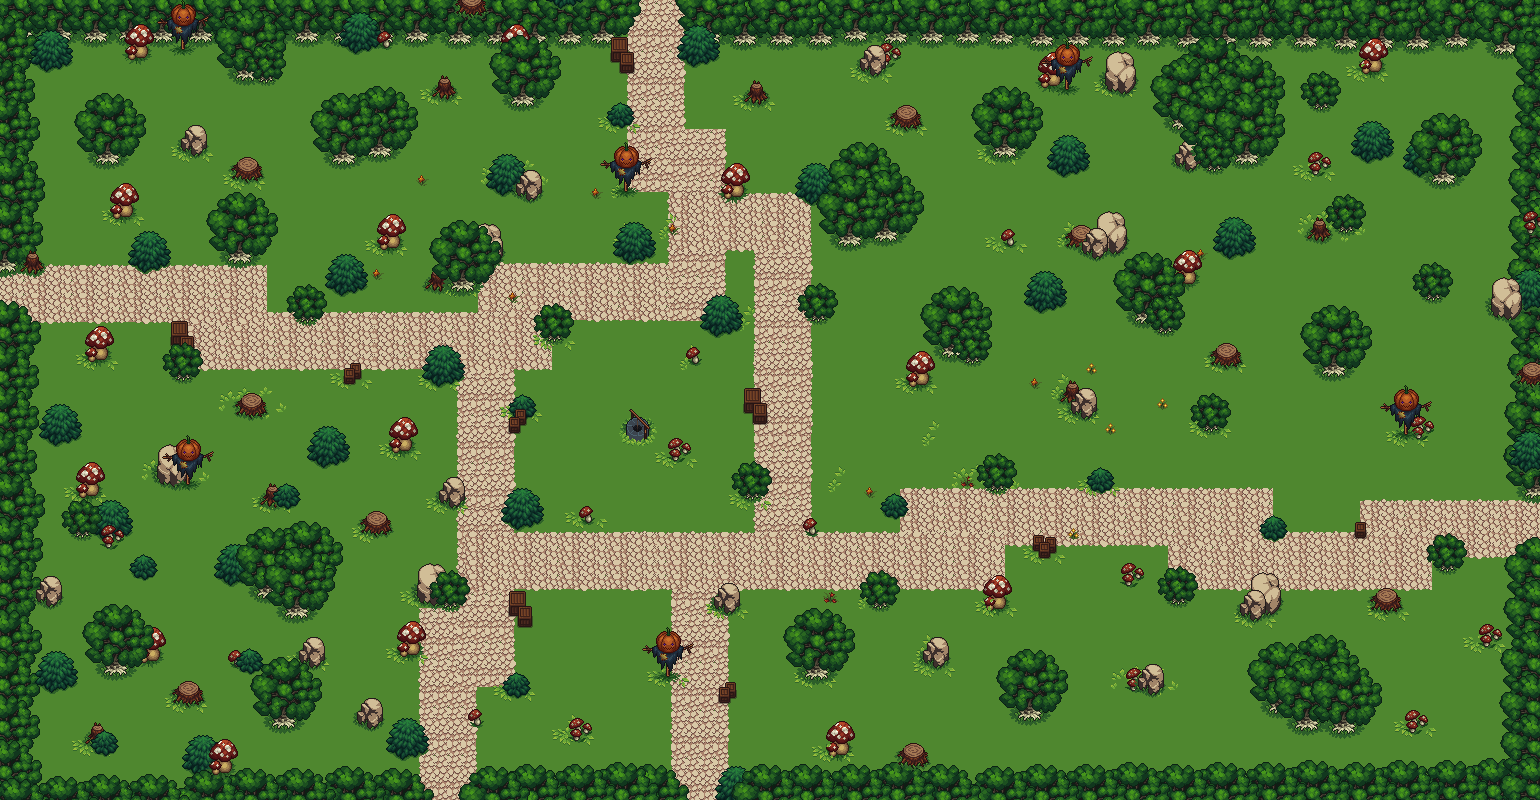
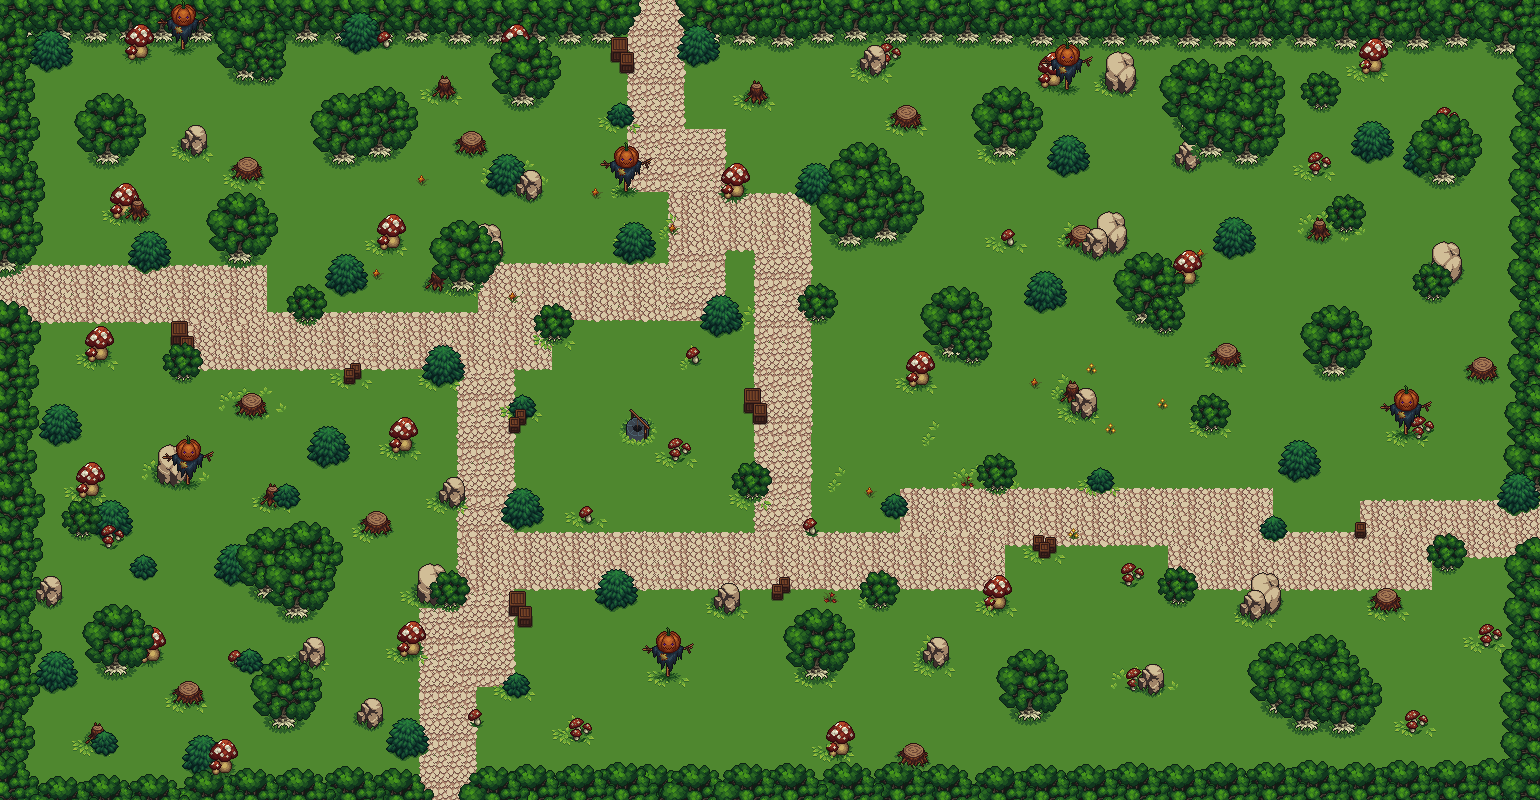
Aggiunto spawnPoint ai lati della foresta per far uscire il player dal percorso scelto (destra, sinistra, in alto o in basso)

diff --git a/src/main/java/it/unicam/cs/mpgc/rpg129851/Controller/ForestController.java b/src/main/java/it/unicam/cs/mpgc/rpg129851/Controller/ForestController.java
@@ -2,6 +2,7 @@ package it.unicam.cs.mpgc.rpg129851.Controller;
 
 import it.unicam.cs.mpgc.rpg129851.Launch.Main;
 import javafx.animation.*;
+import javafx.application.Platform;
 import javafx.fxml.FXML;
 import javafx.geometry.Bounds;
 import javafx.scene.image.Image;
@@ -17,16 +18,43 @@ public class ForestController extends EntityController {
     @FXML
     private ImageView exclamation;
     @FXML
-    private Rectangle blackScreen;
+    private Rectangle blackScreen, leftExit, rightExit, upExit, downExit;
+    private Bounds rightExitHitbox, leftExitHitbox, upExitHitbox, downExitHitbox;
 
     public void initialize() {
         super.initialize();
+        loadBoundsHitbox();
         loadBackground("forestMap.png");
         placeOrcRandomly();
     }
     public void updateLocation() {
         super.updateLocation();
+        exitCollision(leftExitHitbox, 8, 370);
+        exitCollision(rightExitHitbox, 220, 380);
+        exitCollision(upExitHitbox, 105, 225);
+        exitCollision(downExitHitbox, 122, 470);
         orcCollisionDetection();
+    }
+    public void exitCollision(Bounds exit, double x, double y){
+        if(Main.player.getHitbox(newX, newY).intersects(exit)) {
+            timer.stop();
+            keyPressed.clear();
+            FadeTransition fadeOut = new FadeTransition(Duration.seconds(1.5), blackScreen);
+            fadeOut.setFromValue(0.0);
+            fadeOut.setToValue(1.0);
+            fadeOut.setOnFinished(event -> {
+                changeMap((Stage)playerView.getScene().getWindow(), "map-view");
+                setSpawnPoint(x, y);
+            });
+            fadeOut.play();
+
+        }
+    }
+    private void loadBoundsHitbox(){
+        leftExitHitbox = leftExit.getBoundsInParent();
+        rightExitHitbox = rightExit.getBoundsInParent();
+        upExitHitbox = upExit.getBoundsInParent();
+        downExitHitbox = downExit.getBoundsInParent();
     }
     private void placeOrcRandomly(){
         Random rand  = new Random();

diff --git a/src/main/java/it/unicam/cs/mpgc/rpg129851/Controller/EntityController.java b/src/main/java/it/unicam/cs/mpgc/rpg129851/Controller/EntityController.java
@@ -16,11 +16,13 @@ public class EntityController extends LoaderController {
     public final Set<KeyCode> keyPressed = new HashSet<>();
     public boolean moving = false;
     public double newX, newY;
-
     public Pane gameWorld;
     public AnimationTimer timer;
     private long lastChangeFrame = 0;
     private int actualFrame = 0;
+
+    public static double spawnX = -1;
+    public static double spawnY = -1;
 
     public void initialize() {
         super.initialize();
@@ -30,8 +32,15 @@ public class EntityController extends LoaderController {
                 updateLocation();
                 updateAnimation(now);
                 loadHealthBarPlayer();
+                if(spawnX != -1 || spawnY != -1) {
+                    playerView.setLayoutX(spawnX);
+                    playerView.setLayoutY(spawnY);
+                    spawnX = -1;
+                    spawnY = -1;
+                }
             }
         };
+
         timer.start();
     }
     public void updateAnimation(long actualHour) {
@@ -113,7 +122,11 @@ public class EntityController extends LoaderController {
         keyPressed.remove(event.getCode());
     }
 
+    public void setSpawnPoint(double x, double y){
+        spawnX = x;
+        spawnY = y;
 
+    }
 
 
 }

diff --git a/src/main/java/it/unicam/cs/mpgc/rpg129851/Controller/BattleController.java b/src/main/java/it/unicam/cs/mpgc/rpg129851/Controller/BattleController.java
@@ -10,8 +10,10 @@ import javafx.fxml.FXML;
 import javafx.geometry.Rectangle2D;
 import javafx.scene.image.Image;
 import javafx.scene.image.ImageView;
+import javafx.stage.Stage;
 
 import java.util.Objects;
+import java.util.Random;
 
 public class BattleController extends LoaderController {
     @FXML
@@ -87,4 +89,11 @@ public class BattleController extends LoaderController {
         imagePlayer = new Image(Objects.requireNonNull(getClass().getResourceAsStream("/it/unicam/cs/mpgc/rpg129851/images/playerAttack.png")));
     }
 
+    public void run() {
+        Random random = new Random();
+        if(random.nextInt(100) < 10){
+            System.out.println("Sei scappato dall'orco");
+            changeMap((Stage) playerView.getScene().getWindow(), "forest-view");
+        }
+    }
 }

diff --git a/src/main/java/it/unicam/cs/mpgc/rpg129851/Controller/MapController.java b/src/main/java/it/unicam/cs/mpgc/rpg129851/Controller/MapController.java
@@ -1,8 +1,6 @@
 package it.unicam.cs.mpgc.rpg129851.Controller;
 
-
 import it.unicam.cs.mpgc.rpg129851.Launch.Main;
-import javafx.animation.AnimationTimer;
 import javafx.animation.FadeTransition;
 import javafx.fxml.FXML;
 import javafx.geometry.Bounds;
@@ -15,12 +13,9 @@ public class MapController extends EntityController {
     private Rectangle blackScreen;
     public void initialize() {
         super.initialize();
-
         loadBackground("worldMap.png");
         loadHitboxHome();
-
-        playerView.setLayoutX(640);
-        playerView.setLayoutY(165);
+        setSpawnPoint(640, 165);
     }
 
     public void updateLocation() {
@@ -48,7 +43,6 @@ public class MapController extends EntityController {
             FadeTransition fadeOut = new FadeTransition(Duration.seconds(1.5), blackScreen);
             fadeOut.setFromValue(0.0);
             fadeOut.setToValue(1.0);
-
             fadeOut.setOnFinished(event -> {
                 joinForest();
             });
@@ -57,6 +51,7 @@ public class MapController extends EntityController {
     }
     private void joinForest(){
         changeMap((Stage)playerView.getScene().getWindow(), "forest-view");
+
     }
 
     private void loadHitboxHome(){

diff --git a/src/main/java/it/unicam/cs/mpgc/rpg129851/Controller/LoaderController.java b/src/main/java/it/unicam/cs/mpgc/rpg129851/Controller/LoaderController.java
@@ -2,6 +2,7 @@ package it.unicam.cs.mpgc.rpg129851.Controller;
 
 import it.unicam.cs.mpgc.rpg129851.Launch.Main;
 import it.unicam.cs.mpgc.rpg129851.Model.Entity;
+import javafx.application.Platform;
 import javafx.fxml.FXML;
 import javafx.fxml.FXMLLoader;
 import javafx.geometry.Rectangle2D;
@@ -44,8 +45,8 @@ public class LoaderController {
             FXMLLoader loader = new FXMLLoader(getClass().getResource(("/it/unicam/cs/mpgc/rpg129851/" + map + ".fxml")));
             Parent root = loader.load();
             Stage stage = actualStage;
-            Scene forestScene = new Scene(root);
-            stage.setScene(forestScene);
+            Scene scene = new Scene(root);
+            stage.setScene(scene);
             stage.show();
             root.requestFocus();
         }catch(Exception e){

diff --git a/src/main/java/it/unicam/cs/mpgc/rpg129851/Launch/Main.java b/src/main/java/it/unicam/cs/mpgc/rpg129851/Launch/Main.java
@@ -14,7 +14,7 @@ public class Main extends Application {
     public static boolean criticalHit = false;
     @Override
     public void start(Stage primaryStage) throws IOException {
-        FXMLLoader loader = new FXMLLoader(getClass().getResource("/it/unicam/cs/mpgc/rpg129851/map-view.fxml"));
+        FXMLLoader loader = new FXMLLoader(getClass().getResource("/it/unicam/cs/mpgc/rpg129851/forest-view.fxml"));
         Parent root = loader.load();
         Scene scene = new Scene(root);
         primaryStage.setScene(scene);

diff --git a/src/main/java/it/unicam/cs/mpgc/rpg129851/Model/Entity.java b/src/main/java/it/unicam/cs/mpgc/rpg129851/Model/Entity.java
@@ -30,7 +30,7 @@ public abstract class Entity {
         int baseDamage = this.getStrength() + (rand.nextInt(5) - 2);
         int finalDamage = baseDamage - target.defense;
         if(finalDamage <= 0) finalDamage = 1;
-        if(rand.nextInt(100) < 10) {
+        if(rand.nextInt(100) < 7) {
             finalDamage *= 2;
             Main.criticalHit = true;
         }

diff --git a/src/main/java/module-info.java b/src/main/java/module-info.java
@@ -7,7 +7,6 @@ module it.unicam.cs.mpgc.rpg129851 {
     requires javafx.base;
     requires java.desktop;
 
-    opens it.unicam.cs.mpgc.rpg129851 to javafx.fxml;
     exports it.unicam.cs.mpgc.rpg129851.Launch;
     opens it.unicam.cs.mpgc.rpg129851.Launch to javafx.fxml;
     exports it.unicam.cs.mpgc.rpg129851.Controller;